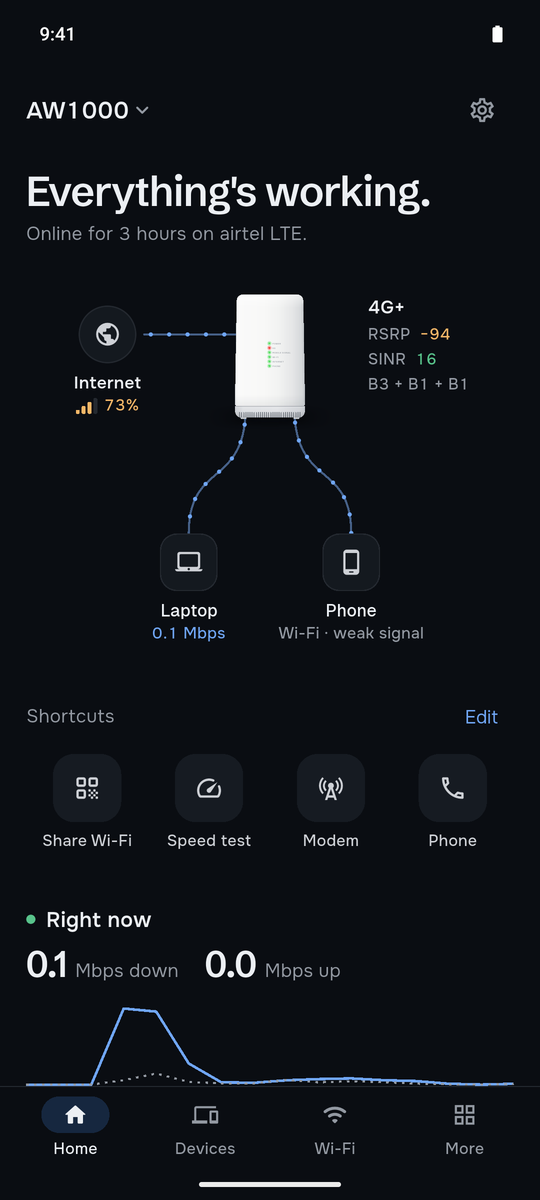
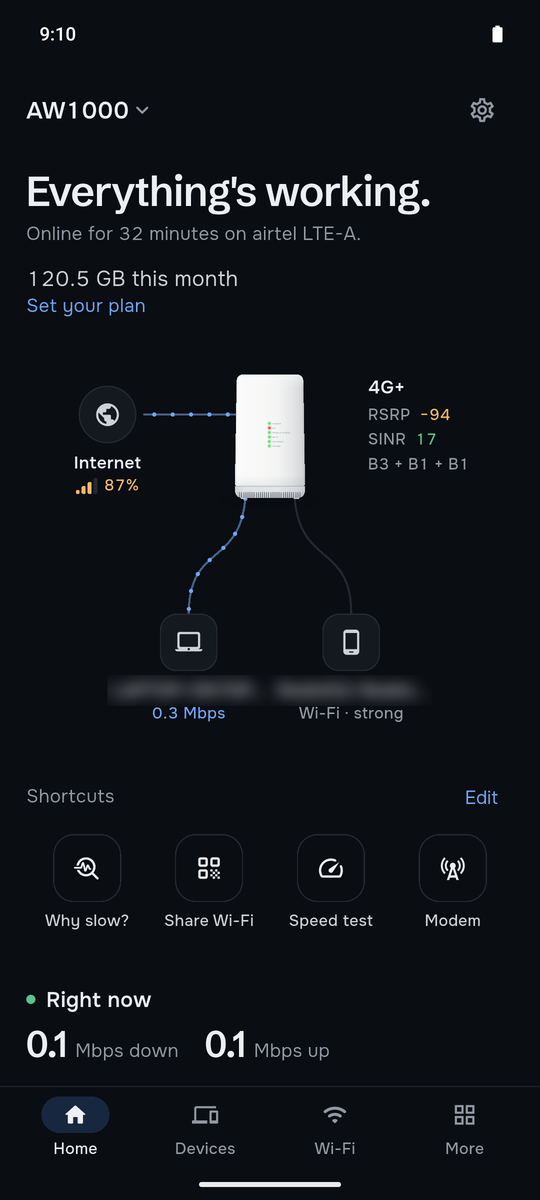
Keystone 1.1.2

diff --git a/CHANGELOG.md b/CHANGELOG.md
@@ -1,7 +1,11 @@
 # Changelog
 
-## 1.1.1
+## 1.1.2
 
+- Locking a cell locks just that cell, and carrier aggregation keeps working
+- The mobile network page works on routers with an older QModem, which showed "QModem's LuCI page didn't answer (403)"
+- The cell lock, password and weak-signal sheets keep their buttons above the phone's navigation bar
+- The home screen's shortcuts are outlined, and data used reads as one line
 - Cell guard, a new add-on: when you lock a cell, it removes the lock if the modem can't connect, the cell is much worse than the one before, or it stops working later, so a lock never leaves the router offline
 - Locking a cell starts from the cells your modem can see, and warns before locking to one it can't see
 - Locking or unlocking a cell retries when the modem is busy, and a newer lock or unlock always wins over an older one still running
